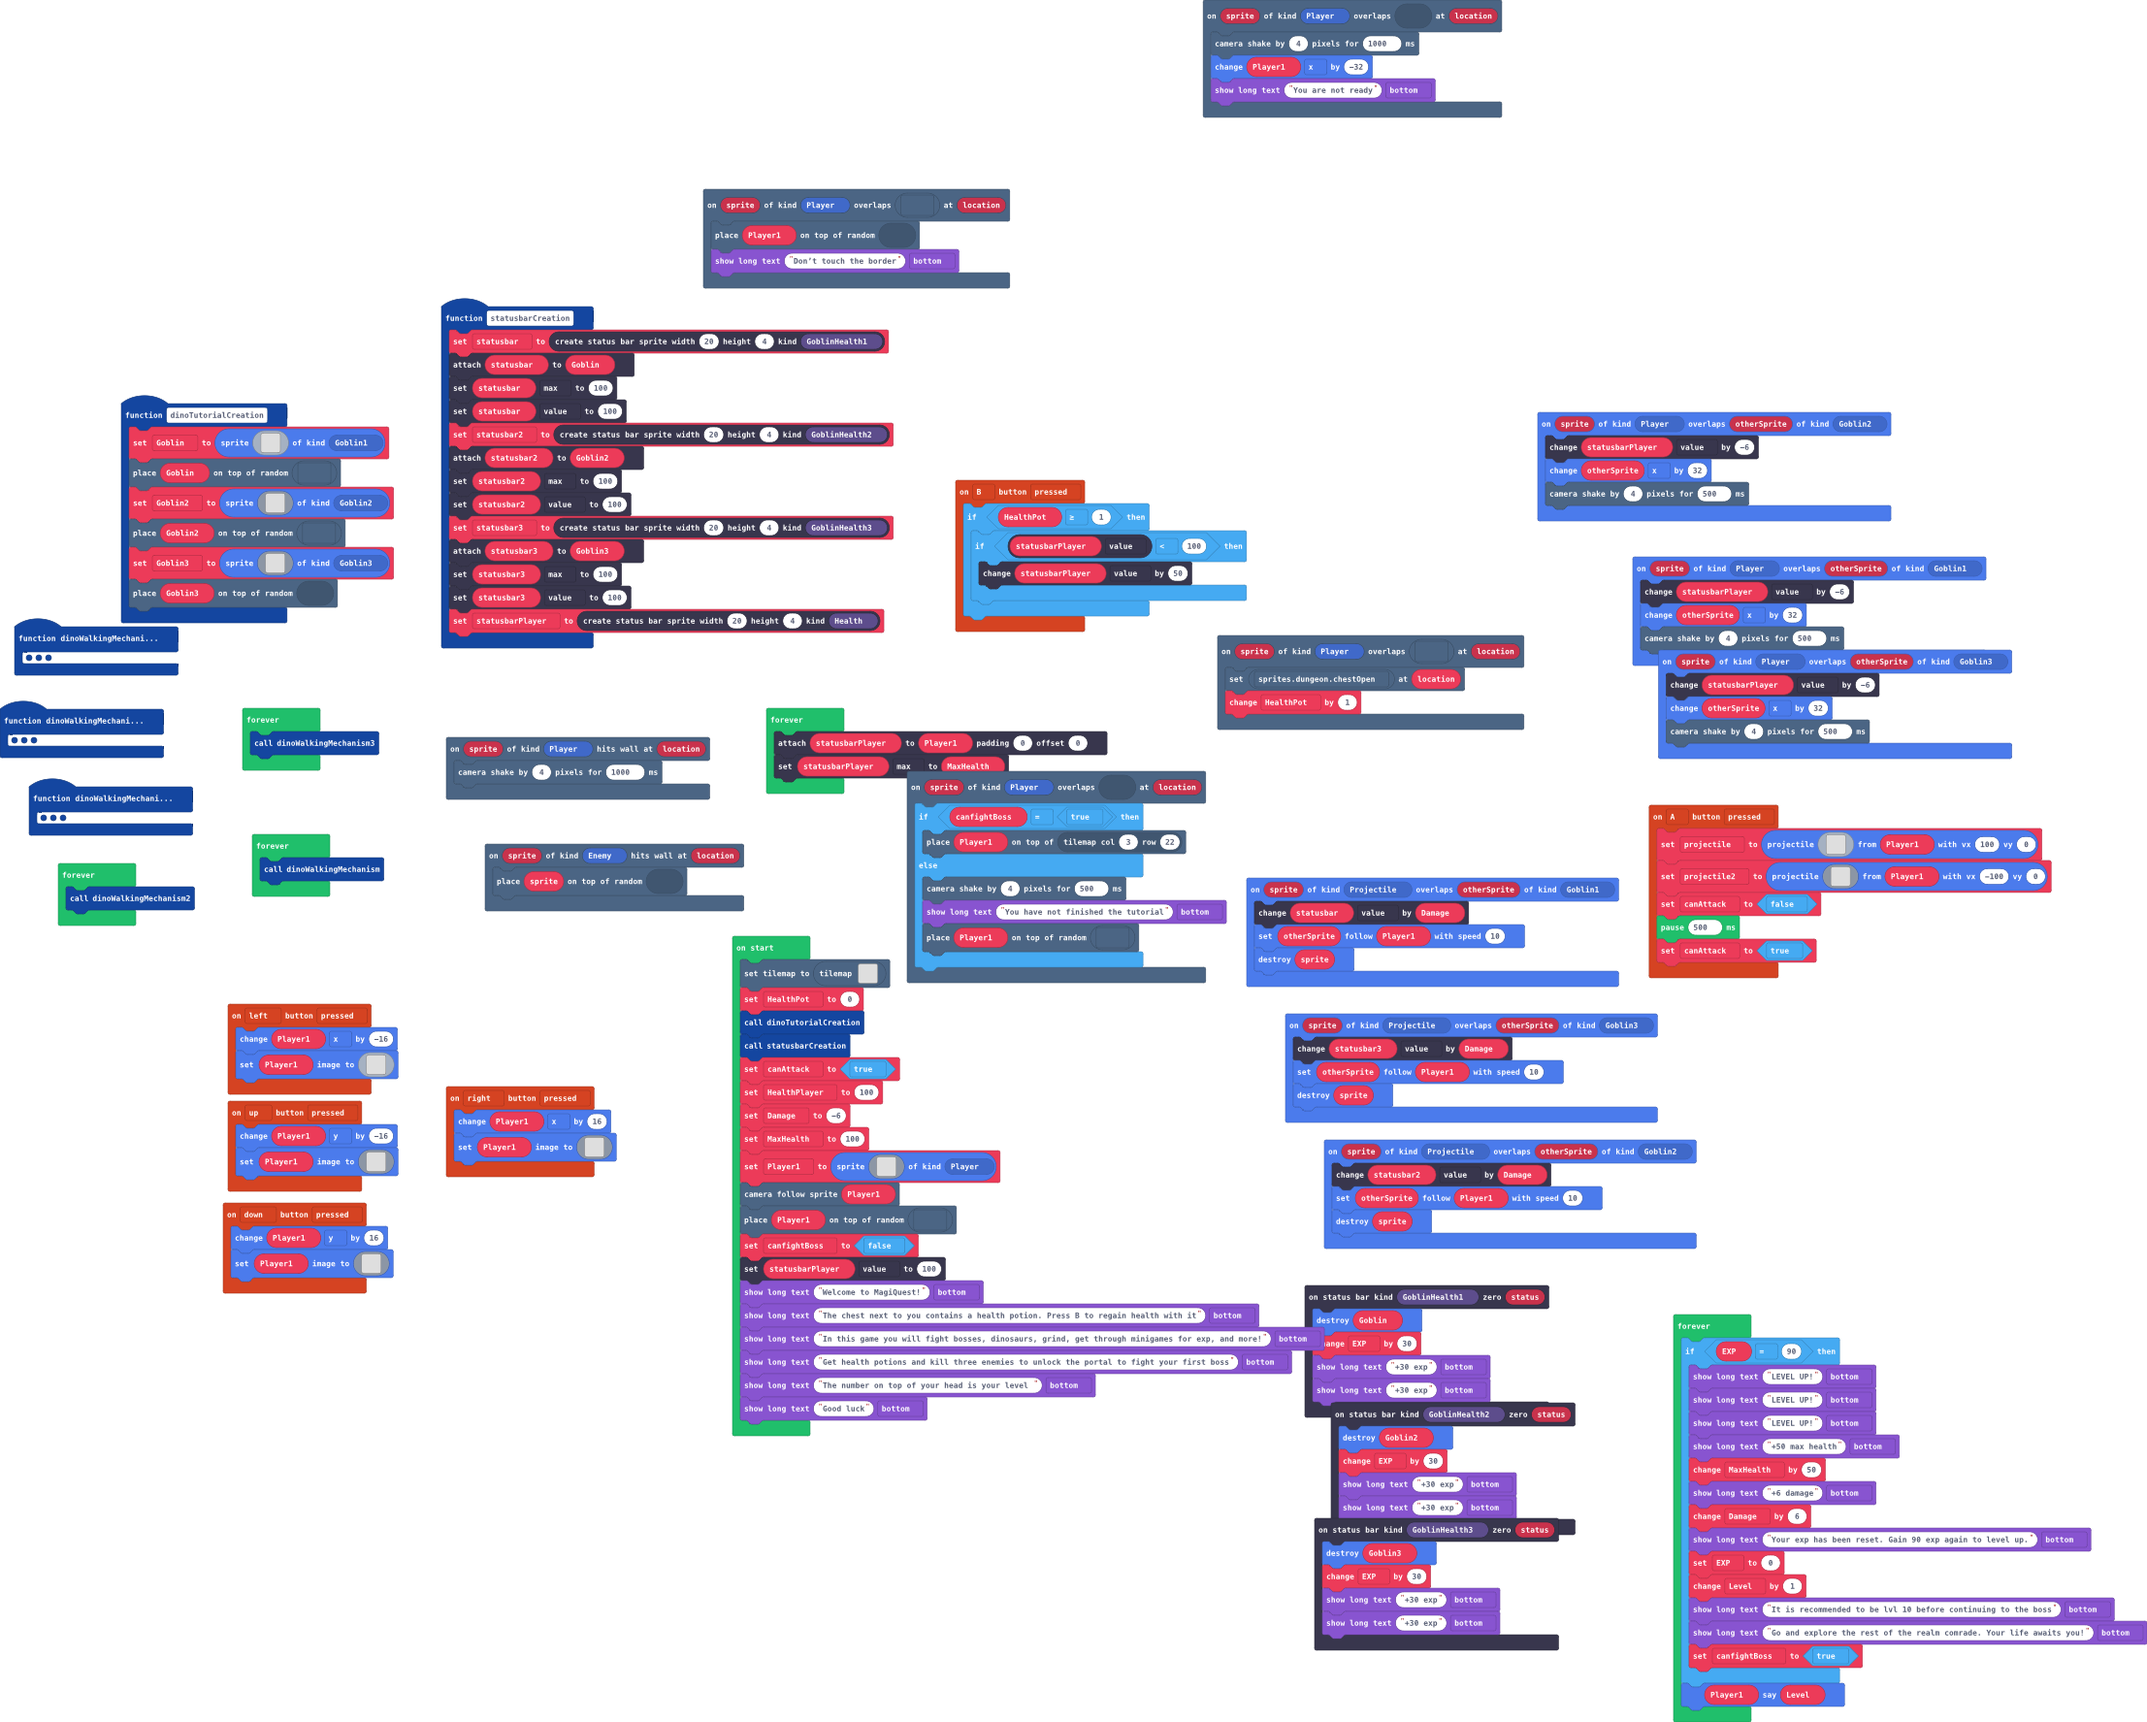
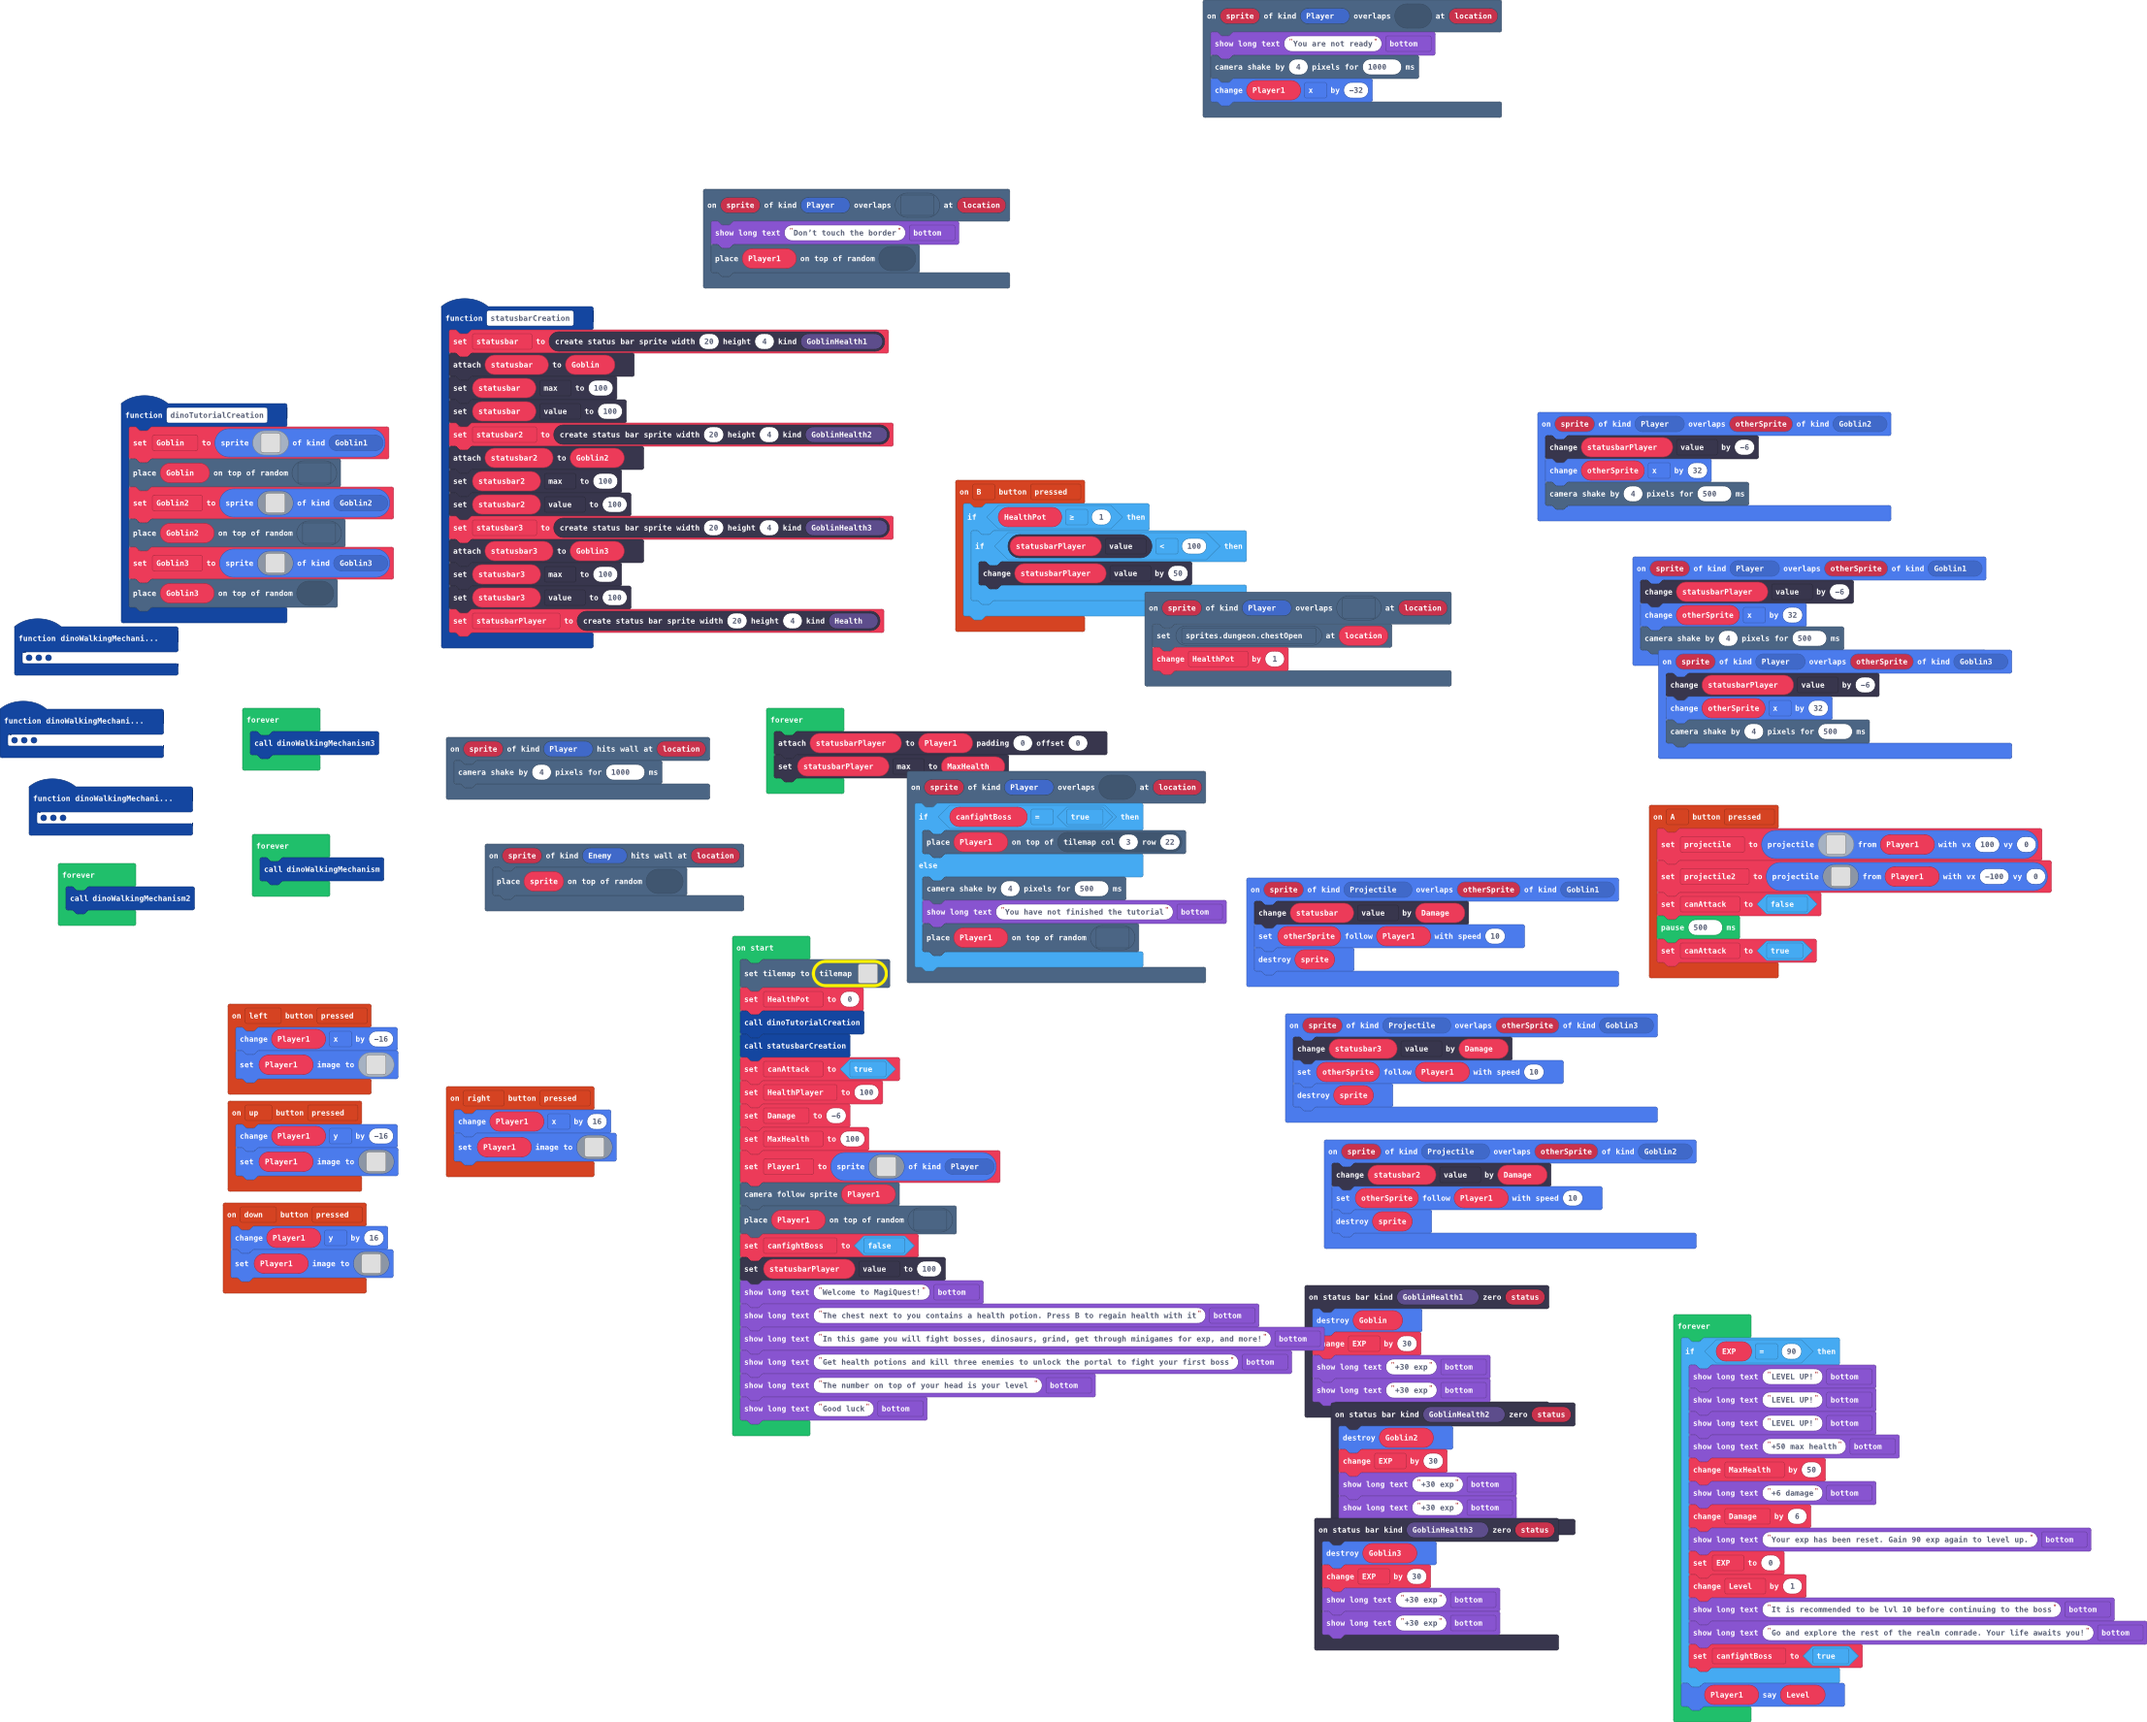
Update pxt.json, main.blocks, main.ts

diff --git a/main.ts b/main.ts
@@ -127,8 +127,8 @@ function dinoWalkingMechanism () {
     Goblin.setImage(assets.image`myImage0`)
 }
 scene.onOverlapTile(SpriteKind.Player, sprites.builtin.brick, function (sprite, location) {
-    tiles.placeOnRandomTile(Player1, sprites.dungeon.floorLight1)
     game.showLongText("Don’t touch the border", DialogLayout.Bottom)
+    tiles.placeOnRandomTile(Player1, sprites.dungeon.floorLight1)
 })
 controller.left.onEvent(ControllerButtonEvent.Pressed, function () {
     Player1.x += -16
@@ -197,6 +197,11 @@ statusbars.onZero(StatusBarKind.GoblinHealth3, function (status) {
     game.showLongText("+30 exp", DialogLayout.Bottom)
     game.showLongText("+30 exp", DialogLayout.Bottom)
 })
+scene.onOverlapTile(SpriteKind.Player, sprites.dungeon.purpleOuterWest1, function (sprite, location) {
+    game.showLongText("You are not ready", DialogLayout.Bottom)
+    scene.cameraShake(4, 1000)
+    Player1.x += -32
+})
 sprites.onOverlap(SpriteKind.Player, SpriteKind.Goblin3, function (sprite, otherSprite) {
     statusbarPlayer.value += -6
     otherSprite.x += 32
@@ -227,11 +232,6 @@ controller.down.onEvent(ControllerButtonEvent.Pressed, function () {
         . . . . . f f f f f f . . . . . 
         . . . . . f f . . f f . . . . . 
         `)
-})
-scene.onOverlapTile(SpriteKind.Player, sprites.dungeon.purpleOuterWest0, function (sprite, location) {
-    scene.cameraShake(4, 1000)
-    Player1.x += -32
-    game.showLongText("You are not ready", DialogLayout.Bottom)
 })
 statusbars.onZero(StatusBarKind.GoblinHealth1, function (status) {
     sprites.destroy(Goblin)
